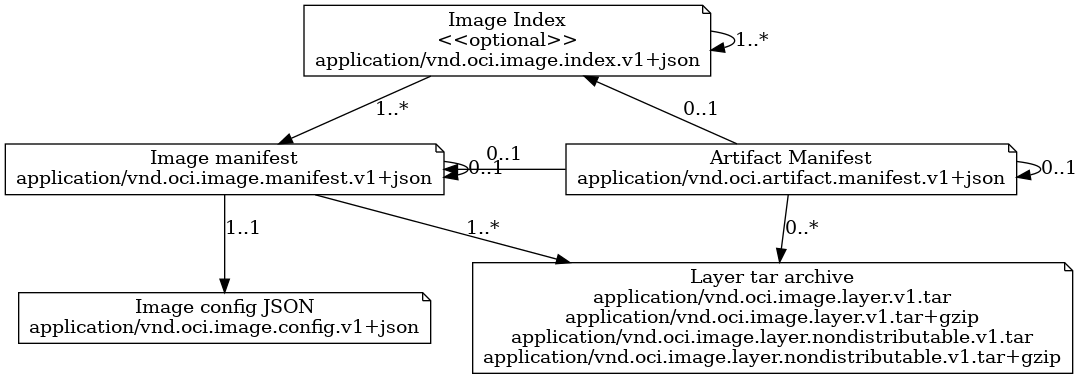
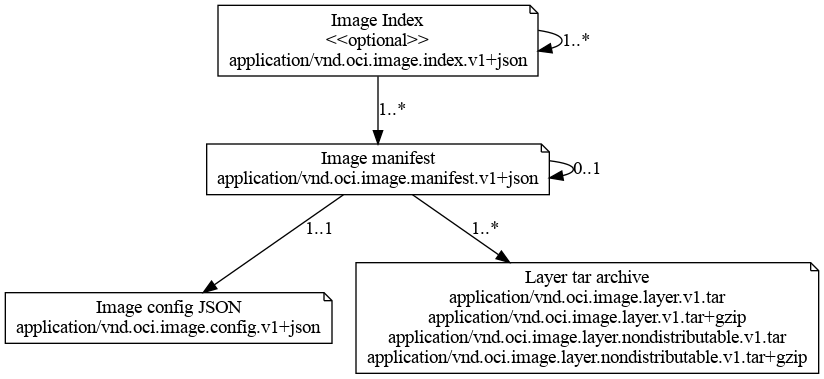
Remove artifact manifest
The artifact manifest does not confer any additional benefits beyond the
existing image manifest. Drop it for the sake of backward compatibility.

Remove references to artifact.md, regenerate graph.

diff --git a/specs-go/v1/mediatype.go b/specs-go/v1/mediatype.go
@@ -72,7 +72,4 @@ const (
 
 	// MediaTypeScratch specifies the media type for an unused blob containing the value `{}`
 	MediaTypeScratch = "application/vnd.oci.scratch.v1+json"
-
-	// MediaTypeArtifactManifest specifies the media type for a content descriptor.
-	MediaTypeArtifactManifest = "application/vnd.oci.artifact.manifest.v1+json"
 )

diff --git a/descriptor.md b/descriptor.md
@@ -55,13 +55,10 @@ The following fields contain the primary properties that constitute a Descriptor
 - **`artifactType`** *string*
 
   This OPTIONAL property contains the type of an artifact when the descriptor points to an artifact.
-  This is the value of `artifactType` when the descriptor references an [artifact manifest](artifact.md).
   This is the value of the config descriptor `mediaType` when the descriptor references an [image manifest](manifest.md).
   If defined, the value MUST comply with [RFC 6838][rfc6838], including the [naming requirements in its section 4.2][rfc6838-s4.2], and MAY be registered with [IANA][iana].
 
 Descriptors pointing to [`application/vnd.oci.image.manifest.v1+json`](manifest.md) SHOULD include the extended field `platform`, see [Image Index Property Descriptions](image-index.md#image-index-property-descriptions) for details.
-
-Descriptors pointing to [`application/vnd.oci.artifact.manifest.v1+json`](artifact.md) SHOULD include the extended field `artifactType`.
 
 ### Reserved
 
@@ -206,7 +203,7 @@ In the following example, the descriptor indicates the type of artifact it is re
 
 ```json,title=Content%20Descriptor&mediatype=application/vnd.oci.descriptor.v1%2Bjson
 {
-  "mediaType": "application/vnd.oci.artifact.manifest.v1+json",
+  "mediaType": "application/vnd.oci.image.manifest.v1+json",
   "size": 123,
   "digest": "sha256:87923725d74f4bfb94c9e86d64170f7521aad8221a5de834851470ca142da630",
   "artifactType": "application/vnd.example.sbom.v1"

diff --git a/annotations.md b/annotations.md
@@ -16,10 +16,8 @@ This property contains arbitrary metadata.
 
 ## Pre-Defined Annotation Keys
 
-This specification defines the following annotation keys, intended for but not limited to [image index](image-index.md), image [manifest](manifest.md), [artifact](artifact.md), and [descriptor](descriptor.md) authors.
+This specification defines the following annotation keys, intended for but not limited to [image index](image-index.md), image [manifest](manifest.md), and [descriptor](descriptor.md) authors.
 
-* **org.opencontainers.artifact.created** date and time on which the artifact was built, conforming to [RFC 3339][rfc3339].
-* **org.opencontainers.artifact.description**: human readable description for the artifact (string)
 * **org.opencontainers.image.created** date and time on which the image was built, conforming to [RFC 3339][rfc3339].
 * **org.opencontainers.image.authors** contact details of the people or organization responsible for the image (freeform string)
 * **org.opencontainers.image.url** URL to find more information on the image (string)

diff --git a/image-index.md b/image-index.md
@@ -35,7 +35,6 @@ For the media type(s) that this document is compatible with, see the [matrix][ma
     Implementations MUST support at least the following media types:
 
     - [`application/vnd.oci.image.manifest.v1+json`](manifest.md)
-    - [`application/vnd.oci.artifact.manifest.v1+json`](artifact.md)
 
     Also, implementations SHOULD support the following media types:
 
@@ -157,14 +156,9 @@ When the variant of the CPU is not listed in the table, values are implementatio
       }
     },
     {
-      "mediaType": "application/vnd.oci.artifact.manifest.v1+json",
+      "mediaType": "application/vnd.oci.image.index.v1+json",
       "size": 7682,
-      "digest": "sha256:601570aaff1b68a61eb9c85b8beca1644e698003e0cdb5bce960f193d265a8b7",
-      "artifactType": "application/example",
-      "annotations": {
-          "com.example.artifactKey1": "value1",
-          "com.example.artifactKey2": "value2"
-        }
+      "digest": "sha256:601570aaff1b68a61eb9c85b8beca1644e698003e0cdb5bce960f193d265a8b7"
     }
   ],
   "annotations": {

diff --git a/spec.md b/spec.md
@@ -17,7 +17,6 @@ The goal of this specification is to enable the creation of interoperable tools 
 - [Image Index](image-index.md)
 - [Filesystem Layers](layer.md)
 - [Image Configuration](config.md)
-- [Artifact Manifest](artifact.md)
 - [Annotations](annotations.md)
 - [Conversion](conversion.md)
 - [Considerations](considerations.md)
@@ -54,7 +53,6 @@ The high-level components of the spec include:
 
 * [Image Manifest](manifest.md) - a document describing the components that make up a container image
 * [Image Index](image-index.md) - an annotated list of manifests
-* [Artifact Manifest](artifact.md) - a document describing the components that make up an artifact
 * [Image Layout](image-layout.md) - a filesystem layout representing the contents of an image
 * [Filesystem Layer](layer.md) - a changeset that describes a container's filesystem
 * [Image Configuration](config.md) - a document determining layer ordering and configuration of the image suitable for translation into a [runtime bundle][runtime-spec]
